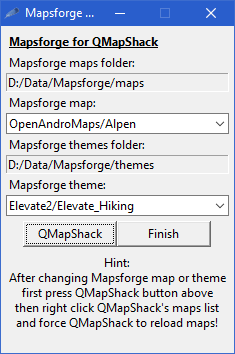
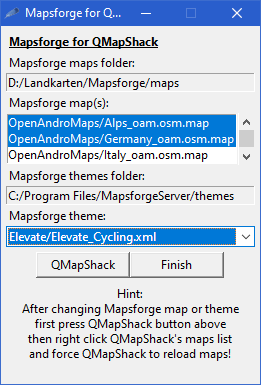
DocBasicsMapDem.md: make screenshot visible in offline help

diff --git a/DocBasicsMapDem.md b/DocBasicsMapDem.md
@@ -277,8 +277,8 @@ pause
 Alternatively, a wrapper script based on above information can make Mapsforge maps available in QMapShack, amongst others OpenAndroMaps maps. In addition, it allows for initially selecting a Mapsforge map and theme and later on switching easily map and theme while QMapShack keeps running. Script _Mapsforge_for_QMapShack.tcl_ is written in Tcl/Tk command language and is executable on Microsoft Windows and Linux operating system. Execution requires Tcl/Tk 8.6 or newer command interpreter to be installed.
 
 Update June 20th, 2020:  
-• Recent version of Mapsforge tile server is able to serve multiple maps. Thus adjacent maps overlap seamlessly and allow for cross-regional planning. Script has been extended to allow selecting multiple map files.  
-• In addition, recent version of Mapsforge tile server now accepts Mapsforge rendertheme version 4 XML files containing styles and overlays. Unfortunately, tile server does not allow selecting a particular style nor enabling/disabling overlays. Instead of that, **all** styles and overlays contained in theme file are rendered. However, separation into different theme files, one file per style, can be derived by removing all unneeded style layers, overlay layers **and** rules from original theme file.
+* Recent version of Mapsforge tile server is able to serve multiple maps. Thus adjacent maps overlap seamlessly and allow for cross-regional planning. Script has been extended to allow selecting multiple map files.  
+* In addition, recent version of Mapsforge tile server now accepts Mapsforge rendertheme version 4 XML files containing styles and overlays. Unfortunately, tile server does not allow selecting a particular style nor enabling/disabling overlays. Instead of that, **all** styles and overlays contained in theme file are rendered. However, separation into different theme files, one file per style, can be derived by removing all unneeded style layers, overlay layers **and** rules from original theme file.
 
 Before using script, some script variables settings (folders, executables, ...) have to be modified to match local installation and environment. These variables are described and set at the beginning of script.
 
@@ -292,7 +292,9 @@ Select map(s) and theme, press wrapper's _QMapShack_ button to start QMapShack a
 
 Screenshot:
 
-![Mapsforge_for_QMapShack](https://user-images.githubusercontent.com/62614244/85198324-156f6480-b2e8-11ea-8ad8-e69051ebe84f.png)
+![Mapsforge_for_QMapShack](images/DocBasicsMapDem/Mapsforge4QMS.png "Mapsforge_for_QMapShack")
+
+(*original location of image:* https://user-images.githubusercontent.com/62614244/85198324-156f6480-b2e8-11ea-8ad8-e69051ebe84f.png)
 
 Code of script _Mapsforge_for_QMapShack.tcl_ (as at June 20th, 2020):
 
@@ -741,8 +743,8 @@ exit
 
 Hint:  
 If QMapShack is showing rendered Mapsforge map a little blurred, it may help to  
-• first open “View -> Setup Map View” and set “Scale” to “Square”  
-• then hit “symbol grid” button at upper right corner above and set “Projection” to “World Mercator (OSM)”
+* first open “View -> Setup Map View” and set “Scale” to “Square”  
+* then hit “symbol grid” button at upper right corner above and set “Projection” to “World Mercator (OSM)”
 
 
 - - -
